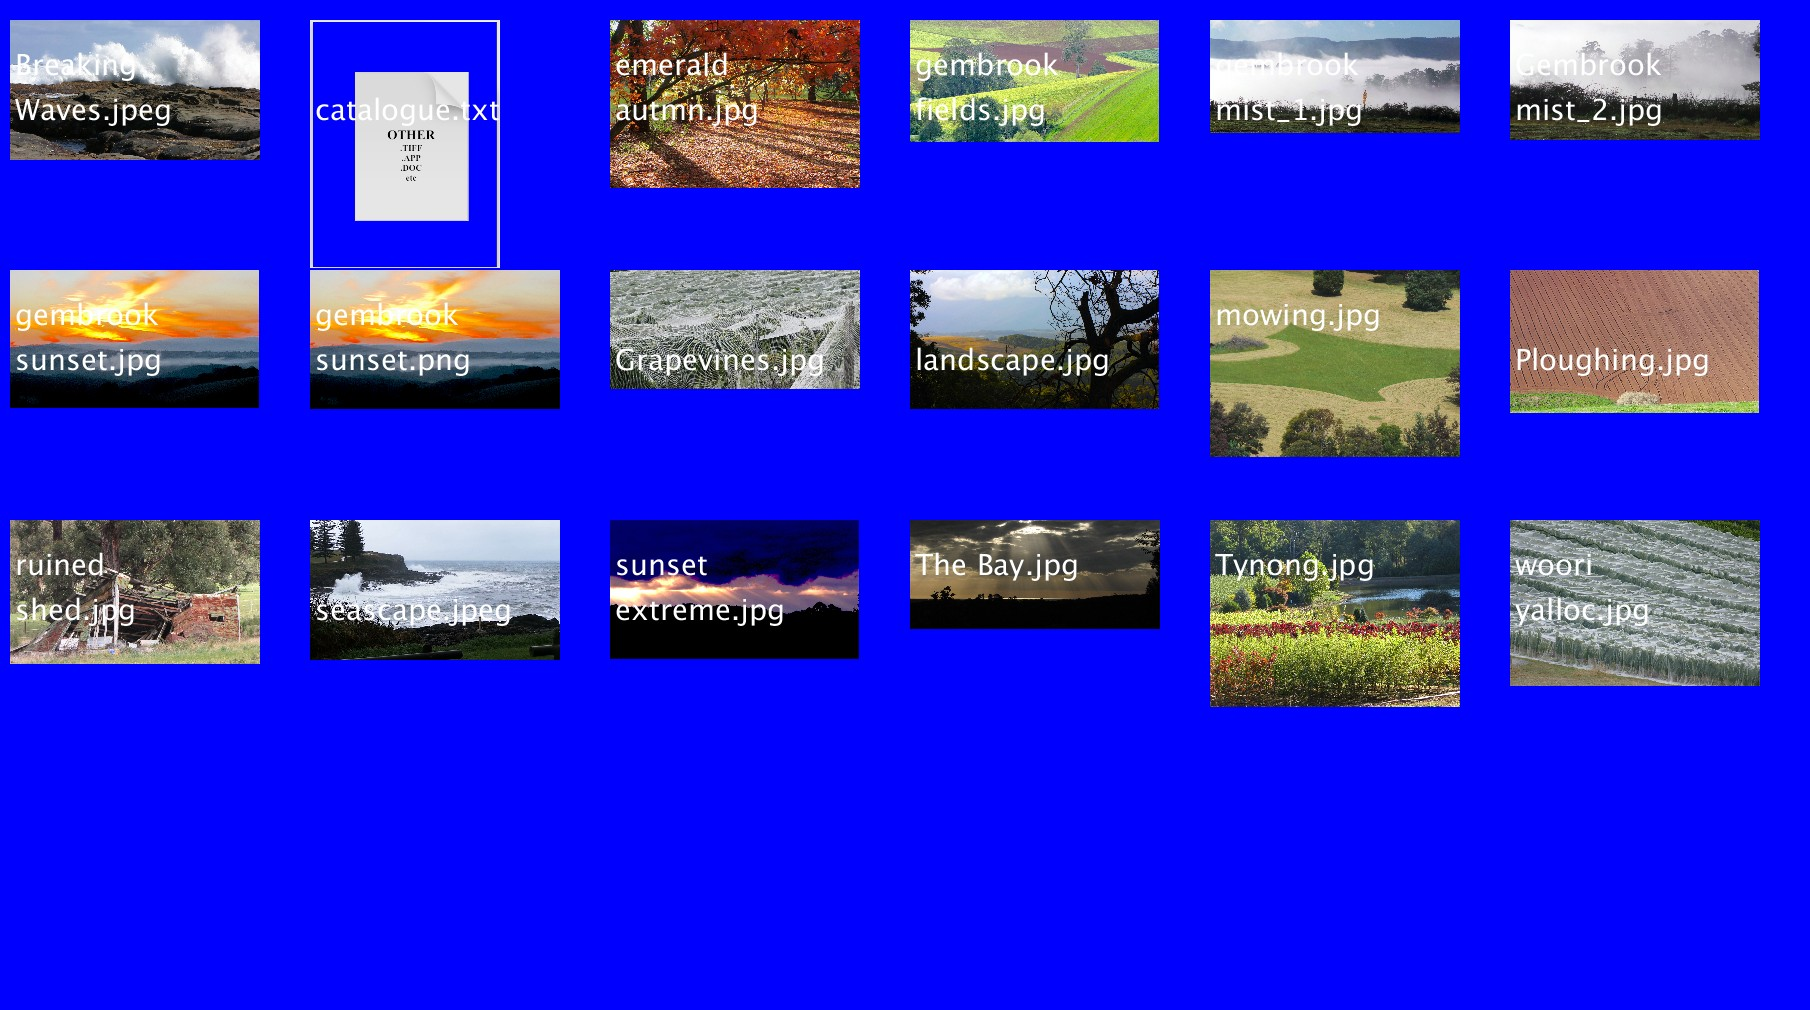
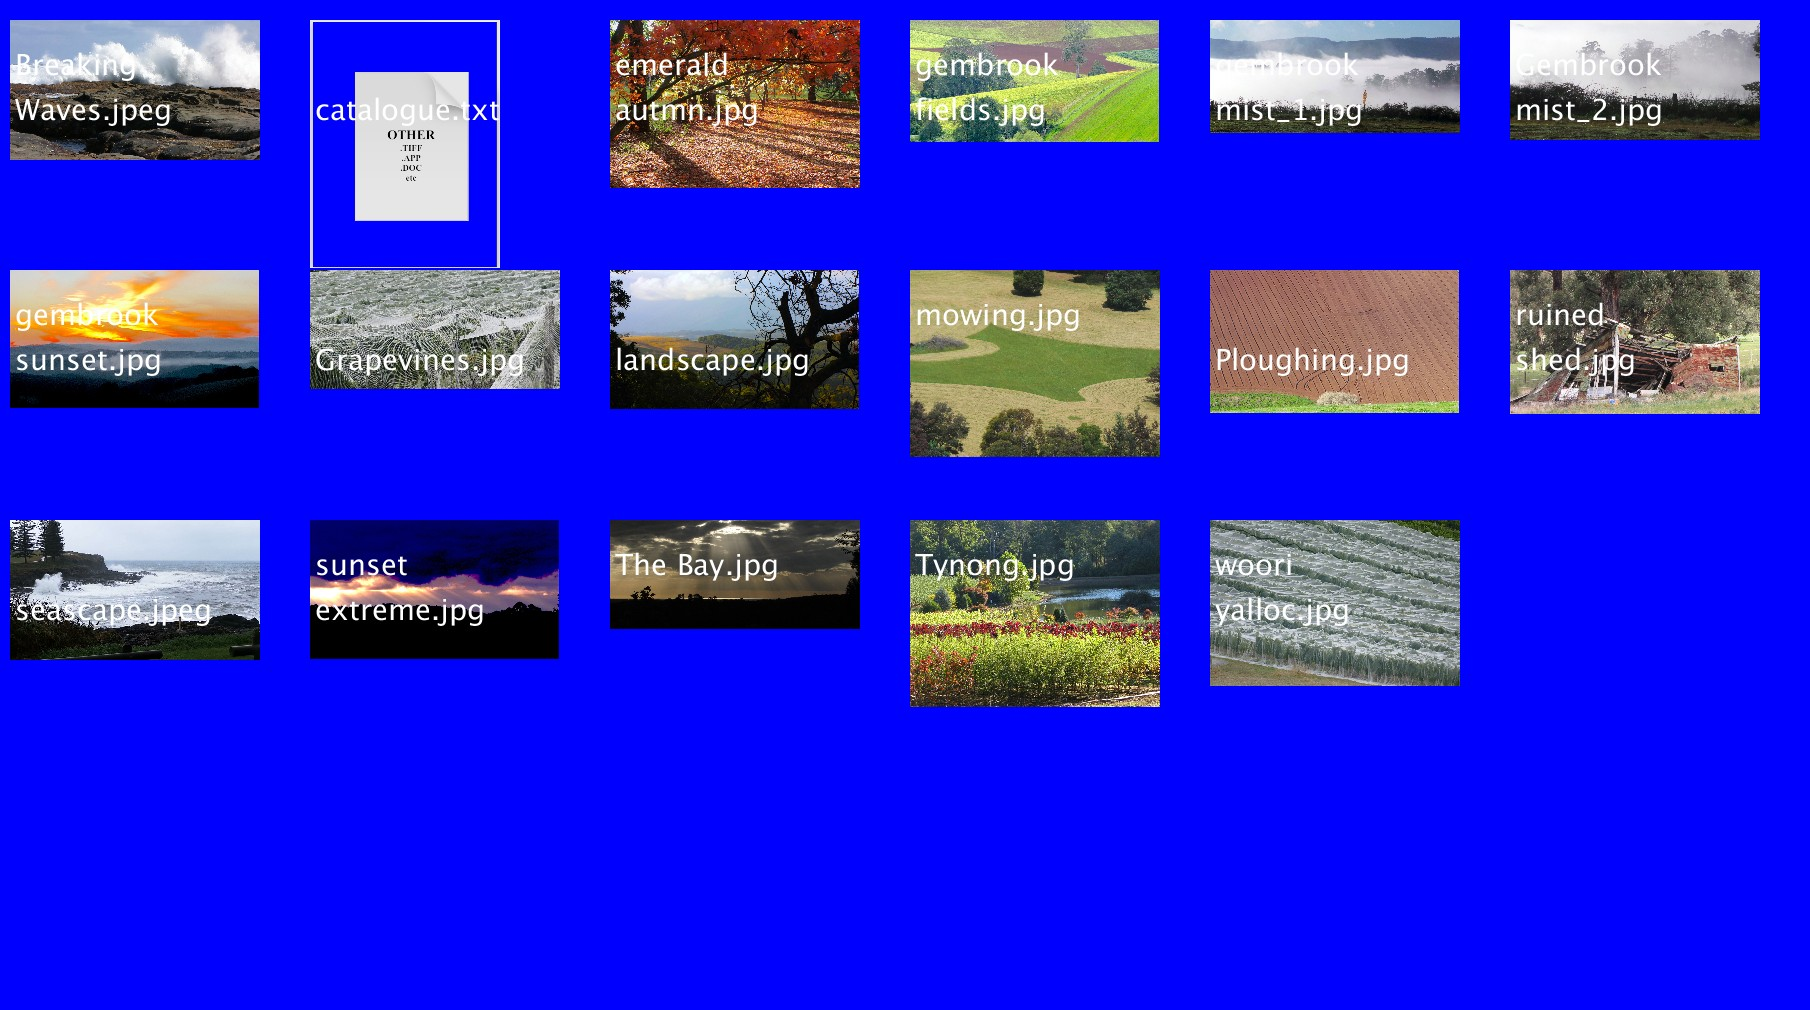
removed redundant landscape

Changed region(s): [[0.0, 0.4911, 0.9901, 0.7059], [0.1547, 0.2455, 0.9901, 0.4604]]

diff --git a/piccies/files/landscapes/index.html b/piccies/files/landscapes/index.html
@@ -10,16 +10,15 @@
 <area shape="rect" coords="1210,20,1500,300" href="files/gembrook mist_1.jpg" alt="files/gembrook mist_1.jpg">
 <area shape="rect" coords="1510,20,1800,300" href="files/Gembrook mist_2.jpg" alt="files/Gembrook mist_2.jpg">
 <area shape="rect" coords="10,270,300,550" href="files/gembrook sunset.jpg" alt="files/gembrook sunset.jpg">
-<area shape="rect" coords="310,270,600,550" href="files/gembrook sunset.png" alt="files/gembrook sunset.png">
-<area shape="rect" coords="610,270,900,550" href="files/Grapevines.jpg" alt="files/Grapevines.jpg">
-<area shape="rect" coords="910,270,1200,550" href="files/landscape.jpg" alt="files/landscape.jpg">
-<area shape="rect" coords="1210,270,1500,550" href="files/mowing.jpg" alt="files/mowing.jpg">
-<area shape="rect" coords="1510,270,1800,550" href="files/Ploughing.jpg" alt="files/Ploughing.jpg">
-<area shape="rect" coords="10,520,300,800" href="files/ruined shed.jpg" alt="files/ruined shed.jpg">
-<area shape="rect" coords="310,520,600,800" href="files/seascape.jpeg" alt="files/seascape.jpeg">
-<area shape="rect" coords="610,520,900,800" href="files/sunset extreme.jpg" alt="files/sunset extreme.jpg">
-<area shape="rect" coords="910,520,1200,800" href="files/The Bay.jpg" alt="files/The Bay.jpg">
-<area shape="rect" coords="1210,520,1500,800" href="files/Tynong.jpg" alt="files/Tynong.jpg">
-<area shape="rect" coords="1510,520,1800,800" href="files/woori yalloc.jpg" alt="files/woori yalloc.jpg">
+<area shape="rect" coords="310,270,600,550" href="files/Grapevines.jpg" alt="files/Grapevines.jpg">
+<area shape="rect" coords="610,270,900,550" href="files/landscape.jpg" alt="files/landscape.jpg">
+<area shape="rect" coords="910,270,1200,550" href="files/mowing.jpg" alt="files/mowing.jpg">
+<area shape="rect" coords="1210,270,1500,550" href="files/Ploughing.jpg" alt="files/Ploughing.jpg">
+<area shape="rect" coords="1510,270,1800,550" href="files/ruined shed.jpg" alt="files/ruined shed.jpg">
+<area shape="rect" coords="10,520,300,800" href="files/seascape.jpeg" alt="files/seascape.jpeg">
+<area shape="rect" coords="310,520,600,800" href="files/sunset extreme.jpg" alt="files/sunset extreme.jpg">
+<area shape="rect" coords="610,520,900,800" href="files/The Bay.jpg" alt="files/The Bay.jpg">
+<area shape="rect" coords="910,520,1200,800" href="files/Tynong.jpg" alt="files/Tynong.jpg">
+<area shape="rect" coords="1210,520,1500,800" href="files/woori yalloc.jpg" alt="files/woori yalloc.jpg">
 
 </map></body></html>
